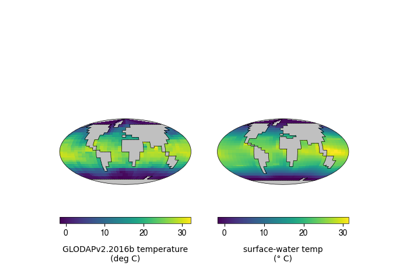
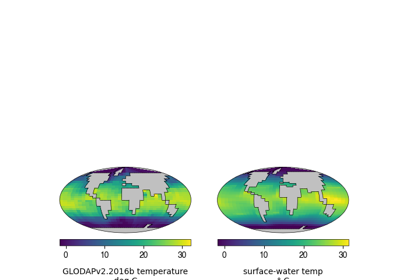
fix #18

Changed region(s): [[0.15, 0.4, 0.48, 1.0], [0.54, 0.4, 0.9, 1.0]]

diff --git a/src/cgeniepy/plot.py b/src/cgeniepy/plot.py
@@ -615,8 +615,9 @@ class ScatterDataVis:
         log=False,
         land_mask=True,
         colorbar=True,
-            gridline=True,
-            zebra_frame=False,
+        gridline=True,
+        zebra_frame=False,
+        mask_age = None,
         *args,
         **kwargs,
     ):
@@ -634,12 +635,27 @@ class ScatterDataVis:
             fig, ax = self._init_fig(subplot_kw={"projection": ccrs.PlateCarree()})
 
         if land_mask:
-            ax.set_global()
-            ## plot land and coastline, zorder is the drawing order, smaller -> backer layer
-            # ax.stock_img()
-            ax.add_feature(cfeature.LAND.with_scale("110m"), zorder=2, facecolor="lightgrey")
-            ax.add_feature(cfeature.COASTLINE.with_scale("110m"), linewidth=1.4)
-            ax.add_feature(cfeature.LAKES.with_scale('110m'), zorder=3, facecolor='black')
+            if not mask_age:
+                ax.set_global()
+                ## plot land and coastline, zorder is the drawing order, smaller -> backer layer
+                # ax.stock_img()
+                ax.add_feature(cfeature.LAND.with_scale("110m"), zorder=2, facecolor="lightgrey")
+                ax.add_feature(cfeature.COASTLINE.with_scale("110m"), linewidth=1.4)
+                ax.add_feature(cfeature.LAKES.with_scale('110m'), zorder=3, facecolor='black')
+            else:
+                from gwspy import PlateModel
+
+                model = PlateModel("Muller2022")
+                coastlines_shapely = model.get_coastlines(
+                    time=mask_age, format="shapely"
+                )
+                ax.add_geometries(
+                    coastlines_shapely,
+                    crs=ccrs.PlateCarree(),
+                    facecolor="grey",
+                    edgecolor=None,
+                    alpha=0.5,
+                )
 
         if log:
             self.data[var] = efficient_log(self.data[var])

diff --git a/docs/source/auto_examples/plot_d13C_comp.py b/docs/source/auto_examples/plot_d13C_comp.py
@@ -15,10 +15,9 @@ import subprocess
 ## by `pip install zenodo_get`, or, just download it from the link above
 subprocess.call(["zenodo_get", "10.5281/zenodo.13786013", "-o", "~/Downloads/"])
 
-
 ## read in the data and construct GriddedData object
 cesm_lgm = xr.load_dataset("~/Downloads/CESM_LGM_var_regrid.nc")
-cesm_13C = GriddedData(cesm_lgm['CISO_DIC_d13C'], mutable=False, attrs=cesm_lgm['CISO_DIC_d13C'].attrs)
+cesm_13C = GriddedData(cesm_lgm['CISO_DIC_d13C'], attrs=cesm_lgm['CISO_DIC_d13C'].attrs)
 cesm_13C_last = cesm_13C.isel(time=-1)
 
 ## read in the proxy data and construct ScatterData object
@@ -33,7 +32,7 @@ for i in proxy_d13C.data.index:
     depth = depth * 100 ## not necessary for cGENIE whose depth is in m
     pos = (depth, lat, lon)
     
-    data = cesm_13C_last.search_point(pos, ignore_na=True)
+    data = cesm_13C_last.search_point(pos, ignore_na=False)
 
     model_data.append(data)
 

diff --git a/examples/plot_paleomask.py b/examples/plot_paleomask.py
@@ -1,0 +1,29 @@
+"""
+==============================================
+Add paleogeography mask in scatter data plot
+==============================================
+
+This example shows how to add paleogeography mask according to input age
+"""
+from cgeniepy.table import ScatterData
+import pandas as pd
+import numpy as np
+
+# Generate random data
+np.random.seed(1239124)  # Set seed for reproducibility
+
+# Create random latitude, longitude, and variable values
+random_data = pd.DataFrame({
+    'lat': np.random.uniform(-90, 90, 100),
+    'lon': np.random.uniform(-180, 180, 100),
+    'dummy_var': np.random.random(100) * 100 
+})
+
+# Convert to ScatterData object
+random_data = ScatterData(random_data)
+
+# Set MultiIndex for the data
+random_data.set_index(['lat', 'lon'])
+
+# Plot with specified parameters
+random_data.plot(var='dummy_var', edgecolor='k', mask_age=100)

diff --git a/docs/source/auto_examples/plot_other_models.py b/docs/source/auto_examples/plot_other_models.py
@@ -20,11 +20,11 @@ subprocess.call(["zenodo_get", "10.5281/zenodo.13786013", "-o", "~/Downloads/"])
 ## read in the data
 cesm_lgm = xr.load_dataset("~/Downloads/CESM_LGM_var_regrid.nc")
 ## construct GriddedData object
-cesm_temp = GriddedData(cesm_lgm['TEMP'], mutable=False, attrs=cesm_lgm['TEMP'].attrs)
+cesm_temp = GriddedData(cesm_lgm['TEMP'], attrs=cesm_lgm['TEMP'].attrs)
 
 ## same for HadCM3L
 hadcm3_lgm=  xr.load_dataset("~/Downloads/teitu_020_o.pgclann.nc", decode_times=False)
-hadcm3_temp = GriddedData(hadcm3_lgm['temp_ym_dpth'], mutable=False, attrs=hadcm3_lgm['temp_ym_dpth'].attrs)
+hadcm3_temp = GriddedData(hadcm3_lgm['temp_ym_dpth'], attrs=hadcm3_lgm['temp_ym_dpth'].attrs)
 
 fig, axs = plt.subplots(1, 2, figsize=(10, 5), subplot_kw={'projection': ccrs.Robinson()})
 

diff --git a/examples/plot_d13C_comp.py b/examples/plot_d13C_comp.py
@@ -15,7 +15,6 @@ import subprocess
 ## by `pip install zenodo_get`, or, just download it from the link above
 subprocess.call(["zenodo_get", "10.5281/zenodo.13786013", "-o", "~/Downloads/"])
 
-
 ## read in the data and construct GriddedData object
 cesm_lgm = xr.load_dataset("~/Downloads/CESM_LGM_var_regrid.nc")
 cesm_13C = GriddedData(cesm_lgm['CISO_DIC_d13C'], attrs=cesm_lgm['CISO_DIC_d13C'].attrs)
@@ -33,7 +32,7 @@ for i in proxy_d13C.data.index:
     depth = depth * 100 ## not necessary for cGENIE whose depth is in m
     pos = (depth, lat, lon)
     
-    data = cesm_13C_last.search_point(pos, ignore_na=True)
+    data = cesm_13C_last.search_point(pos, ignore_na=False)
 
     model_data.append(data)
 

diff --git a/docs/source/auto_examples/plot_regridded_data.py b/docs/source/auto_examples/plot_regridded_data.py
@@ -48,7 +48,7 @@ genie_sst = model.get_var('ocn_sur_temp').isel(time=-1).normalise_longitude(meth
 ## here just lightly mask the glodap data for better looking
 worlg4_mask = np.isnan(model.get_var('grid_mask').normalise_longitude(method='g2n').data)
 masked_glodap_temp = glodap_temp.where(~worlg4_mask)
-masked_glodap_temp = GriddedData(masked_glodap_temp, mutable=False, attrs=glodap_temp.attrs)
+masked_glodap_temp = GriddedData(masked_glodap_temp, attrs=glodap_temp.attrs)
 masked_glodap_temp.attrs['long_name'] = 'GLODAPv2.2016b temperature'
 masked_glodap_temp.attrs['units'] = 'deg C'
 

diff --git a/docs/source/conf.py b/docs/source/conf.py
@@ -15,7 +15,7 @@ sys.path.insert(0, os.path.abspath('../src/cgeniepy/'))
 project = 'cgeniepy'
 copyright = f"2024-{datetime.datetime.now().year}, Rui Ying"
 author = 'Rui Ying'
-release = '0.14.7'
+release = '0.14.8'
 
 
 # -- General configuration ---------------------------------------------------

diff --git a/docs/source/auto_examples/plot_d13C_comp.rst b/docs/source/auto_examples/plot_d13C_comp.rst
@@ -24,7 +24,7 @@ Search the nearest grid point for a given location
 
 This example is a combination of ScatterData and GriddedData to search the nearest grid point for a given location. I use CESM model output(You can download them from https://zenodo.org/records/13786013) and LGM d13C data from Peterson et al. 2014 (https://agupubs.onlinelibrary.wiley.com/doi/full/10.1002/2013PA002552) as an example.
 
-.. GENERATED FROM PYTHON SOURCE LINES 8-46
+.. GENERATED FROM PYTHON SOURCE LINES 8-45
 
 
 
@@ -34,8 +34,19 @@ This example is a combination of ScatterData and GriddedData to search the neare
    :class: sphx-glr-single-img
 
 
+.. rst-class:: sphx-glr-script-out
+
+ .. code-block:: none
+
+    /Users/yingrui/miniforge3/lib/python3.12/site-packages/pyproj/network.py:59: UserWarning: pyproj unable to set PROJ database path.
+      _set_context_ca_bundle_path(ca_bundle_path)
 
 
+
+
+
+
+|
 
 .. code-block:: Python
 
@@ -49,10 +60,9 @@ This example is a combination of ScatterData and GriddedData to search the neare
     ## by `pip install zenodo_get`, or, just download it from the link above
     subprocess.call(["zenodo_get", "10.5281/zenodo.13786013", "-o", "~/Downloads/"])
 
-
     ## read in the data and construct GriddedData object
     cesm_lgm = xr.load_dataset("~/Downloads/CESM_LGM_var_regrid.nc")
-    cesm_13C = GriddedData(cesm_lgm['CISO_DIC_d13C'], mutable=False, attrs=cesm_lgm['CISO_DIC_d13C'].attrs)
+    cesm_13C = GriddedData(cesm_lgm['CISO_DIC_d13C'], attrs=cesm_lgm['CISO_DIC_d13C'].attrs)
     cesm_13C_last = cesm_13C.isel(time=-1)
 
     ## read in the proxy data and construct ScatterData object
@@ -67,7 +77,7 @@ This example is a combination of ScatterData and GriddedData to search the neare
         depth = depth * 100 ## not necessary for cGENIE whose depth is in m
         pos = (depth, lat, lon)
     
-        data = cesm_13C_last.search_point(pos, ignore_na=True)
+        data = cesm_13C_last.search_point(pos, ignore_na=False)
 
         model_data.append(data)
 
@@ -81,7 +91,7 @@ This example is a combination of ScatterData and GriddedData to search the neare
 
 .. rst-class:: sphx-glr-timing
 
-   **Total running time of the script:** (0 minutes 31.225 seconds)
+   **Total running time of the script:** (0 minutes 2.828 seconds)
 
 
 .. _sphx_glr_download_auto_examples_plot_d13C_comp.py:

diff --git a/docs/source/auto_examples/plot_regridded_data.rst b/docs/source/auto_examples/plot_regridded_data.rst
@@ -52,9 +52,11 @@ The GLODAPV2 data is from https://glodap.info/index.php/mapped-data-product/.
 
  .. code-block:: none
 
+    /Users/yingrui/miniforge3/lib/python3.12/site-packages/pyproj/network.py:59: UserWarning: pyproj unable to set PROJ database path.
+      _set_context_ca_bundle_path(ca_bundle_path)
     /Users/yingrui/cgeniepy/src/cgeniepy/model.py:51: UserWarning: No gemflag is provided, use default gemflags: [biogem]
       warnings.warn("No gemflag is provided, use default gemflags: [biogem]")
-    M-score of sea surface temperature 0.8293330621285011
+    M-score of sea surface temperature 0.8293330629170114
 
 
 
@@ -94,7 +96,7 @@ The GLODAPV2 data is from https://glodap.info/index.php/mapped-data-product/.
     ## here just lightly mask the glodap data for better looking
     worlg4_mask = np.isnan(model.get_var('grid_mask').normalise_longitude(method='g2n').data)
     masked_glodap_temp = glodap_temp.where(~worlg4_mask)
-    masked_glodap_temp = GriddedData(masked_glodap_temp, mutable=False, attrs=glodap_temp.attrs)
+    masked_glodap_temp = GriddedData(masked_glodap_temp, attrs=glodap_temp.attrs)
     masked_glodap_temp.attrs['long_name'] = 'GLODAPv2.2016b temperature'
     masked_glodap_temp.attrs['units'] = 'deg C'
 
@@ -109,7 +111,7 @@ The GLODAPV2 data is from https://glodap.info/index.php/mapped-data-product/.
 
 .. rst-class:: sphx-glr-timing
 
-   **Total running time of the script:** (0 minutes 2.471 seconds)
+   **Total running time of the script:** (0 minutes 4.593 seconds)
 
 
 .. _sphx_glr_download_auto_examples_plot_regridded_data.py:

diff --git a/docs/source/auto_examples/sg_execution_times.rst b/docs/source/auto_examples/sg_execution_times.rst
@@ -6,7 +6,7 @@
 
 Computation times
 =================
-**01:48.528** total execution time for 16 files **from auto_examples**:
+**00:02.828** total execution time for 17 files **from auto_examples**:
 
 .. container::
 
@@ -32,8 +32,8 @@ Computation times
    * - Example
      - Time
      - Mem (MB)
-   * - :ref:`sphx_glr_auto_examples_plot_other_models.py` (``plot_other_models.py``)
-     - 01:48.528
+   * - :ref:`sphx_glr_auto_examples_plot_d13C_comp.py` (``plot_d13C_comp.py``)
+     - 00:02.828
      - 0.0
    * - :ref:`sphx_glr_auto_examples_plot_PO4_distribution.py` (``plot_PO4_distribution.py``)
      - 00:00.000
@@ -47,9 +47,6 @@ Computation times
    * - :ref:`sphx_glr_auto_examples_plot_coastal_data.py` (``plot_coastal_data.py``)
      - 00:00.000
      - 0.0
-   * - :ref:`sphx_glr_auto_examples_plot_d13C_comp.py` (``plot_d13C_comp.py``)
-     - 00:00.000
-     - 0.0
    * - :ref:`sphx_glr_auto_examples_plot_evaluation.py` (``plot_evaluation.py``)
      - 00:00.000
      - 0.0
@@ -59,7 +56,13 @@ Computation times
    * - :ref:`sphx_glr_auto_examples_plot_multiple_vars.py` (``plot_multiple_vars.py``)
      - 00:00.000
      - 0.0
+   * - :ref:`sphx_glr_auto_examples_plot_other_models.py` (``plot_other_models.py``)
+     - 00:00.000
+     - 0.0
    * - :ref:`sphx_glr_auto_examples_plot_pac_sst.py` (``plot_pac_sst.py``)
+     - 00:00.000
+     - 0.0
+   * - :ref:`sphx_glr_auto_examples_plot_paleomask.py` (``plot_paleomask.py``)
      - 00:00.000
      - 0.0
    * - :ref:`sphx_glr_auto_examples_plot_regridded_data.py` (``plot_regridded_data.py``)

diff --git a/docs/source/auto_examples/plot_other_models.rst b/docs/source/auto_examples/plot_other_models.rst
@@ -39,10 +39,8 @@ You can download them from https://zenodo.org/records/13786014.
 
  .. code-block:: none
 
-    /Users/yingrui/miniforge3/lib/python3.12/site-packages/pyproj/network.py:59: UserWarning: pyproj unable to set PROJ database path.
-      _set_context_ca_bundle_path(ca_bundle_path)
 
-    <matplotlib.colorbar.Colorbar object at 0x304313320>
+    <matplotlib.colorbar.Colorbar object at 0x15e4e4380>
 
 
 
@@ -66,11 +64,11 @@ You can download them from https://zenodo.org/records/13786014.
     ## read in the data
     cesm_lgm = xr.load_dataset("~/Downloads/CESM_LGM_var_regrid.nc")
     ## construct GriddedData object
-    cesm_temp = GriddedData(cesm_lgm['TEMP'], mutable=False, attrs=cesm_lgm['TEMP'].attrs)
+    cesm_temp = GriddedData(cesm_lgm['TEMP'], attrs=cesm_lgm['TEMP'].attrs)
 
     ## same for HadCM3L
     hadcm3_lgm=  xr.load_dataset("~/Downloads/teitu_020_o.pgclann.nc", decode_times=False)
-    hadcm3_temp = GriddedData(hadcm3_lgm['temp_ym_dpth'], mutable=False, attrs=hadcm3_lgm['temp_ym_dpth'].attrs)
+    hadcm3_temp = GriddedData(hadcm3_lgm['temp_ym_dpth'], attrs=hadcm3_lgm['temp_ym_dpth'].attrs)
 
     fig, axs = plt.subplots(1, 2, figsize=(10, 5), subplot_kw={'projection': ccrs.Robinson()})
 
@@ -89,7 +87,7 @@ You can download them from https://zenodo.org/records/13786014.
 
 .. rst-class:: sphx-glr-timing
 
-   **Total running time of the script:** (1 minutes 48.528 seconds)
+   **Total running time of the script:** (0 minutes 47.767 seconds)
 
 
 .. _sphx_glr_download_auto_examples_plot_other_models.py:

diff --git a/docs/source/auto_examples/index.rst b/docs/source/auto_examples/index.rst
@@ -117,6 +117,23 @@ Below is a gallery of examples
 
 .. raw:: html
 
+    <div class="sphx-glr-thumbcontainer" tooltip="This example shows how to add paleogeography mask according to input age">
+
+.. only:: html
+
+  .. image:: /auto_examples/images/thumb/sphx_glr_plot_paleomask_thumb.png
+    :alt:
+
+  :ref:`sphx_glr_auto_examples_plot_paleomask.py`
+
+.. raw:: html
+
+      <div class="sphx-glr-thumbnail-title">Add paleogeography mask in scatter data plot</div>
+    </div>
+
+
+.. raw:: html
+
     <div class="sphx-glr-thumbcontainer" tooltip="This example shows how to plot the 2D ScatterData object. I use a LGM d13C data from Peterson et al. 2014 (https://agupubs.onlinelibrary.wiley.com/doi/full/10.1002/2013PA002552) as an example.">
 
 .. only:: html
@@ -301,6 +318,7 @@ Below is a gallery of examples
    /auto_examples/plot_sst_map
    /auto_examples/plot_timeseries
    /auto_examples/plot_logo
+   /auto_examples/plot_paleomask
    /auto_examples/plot_scatter_map
    /auto_examples/plot_scatterdata
    /auto_examples/plot_evaluation
